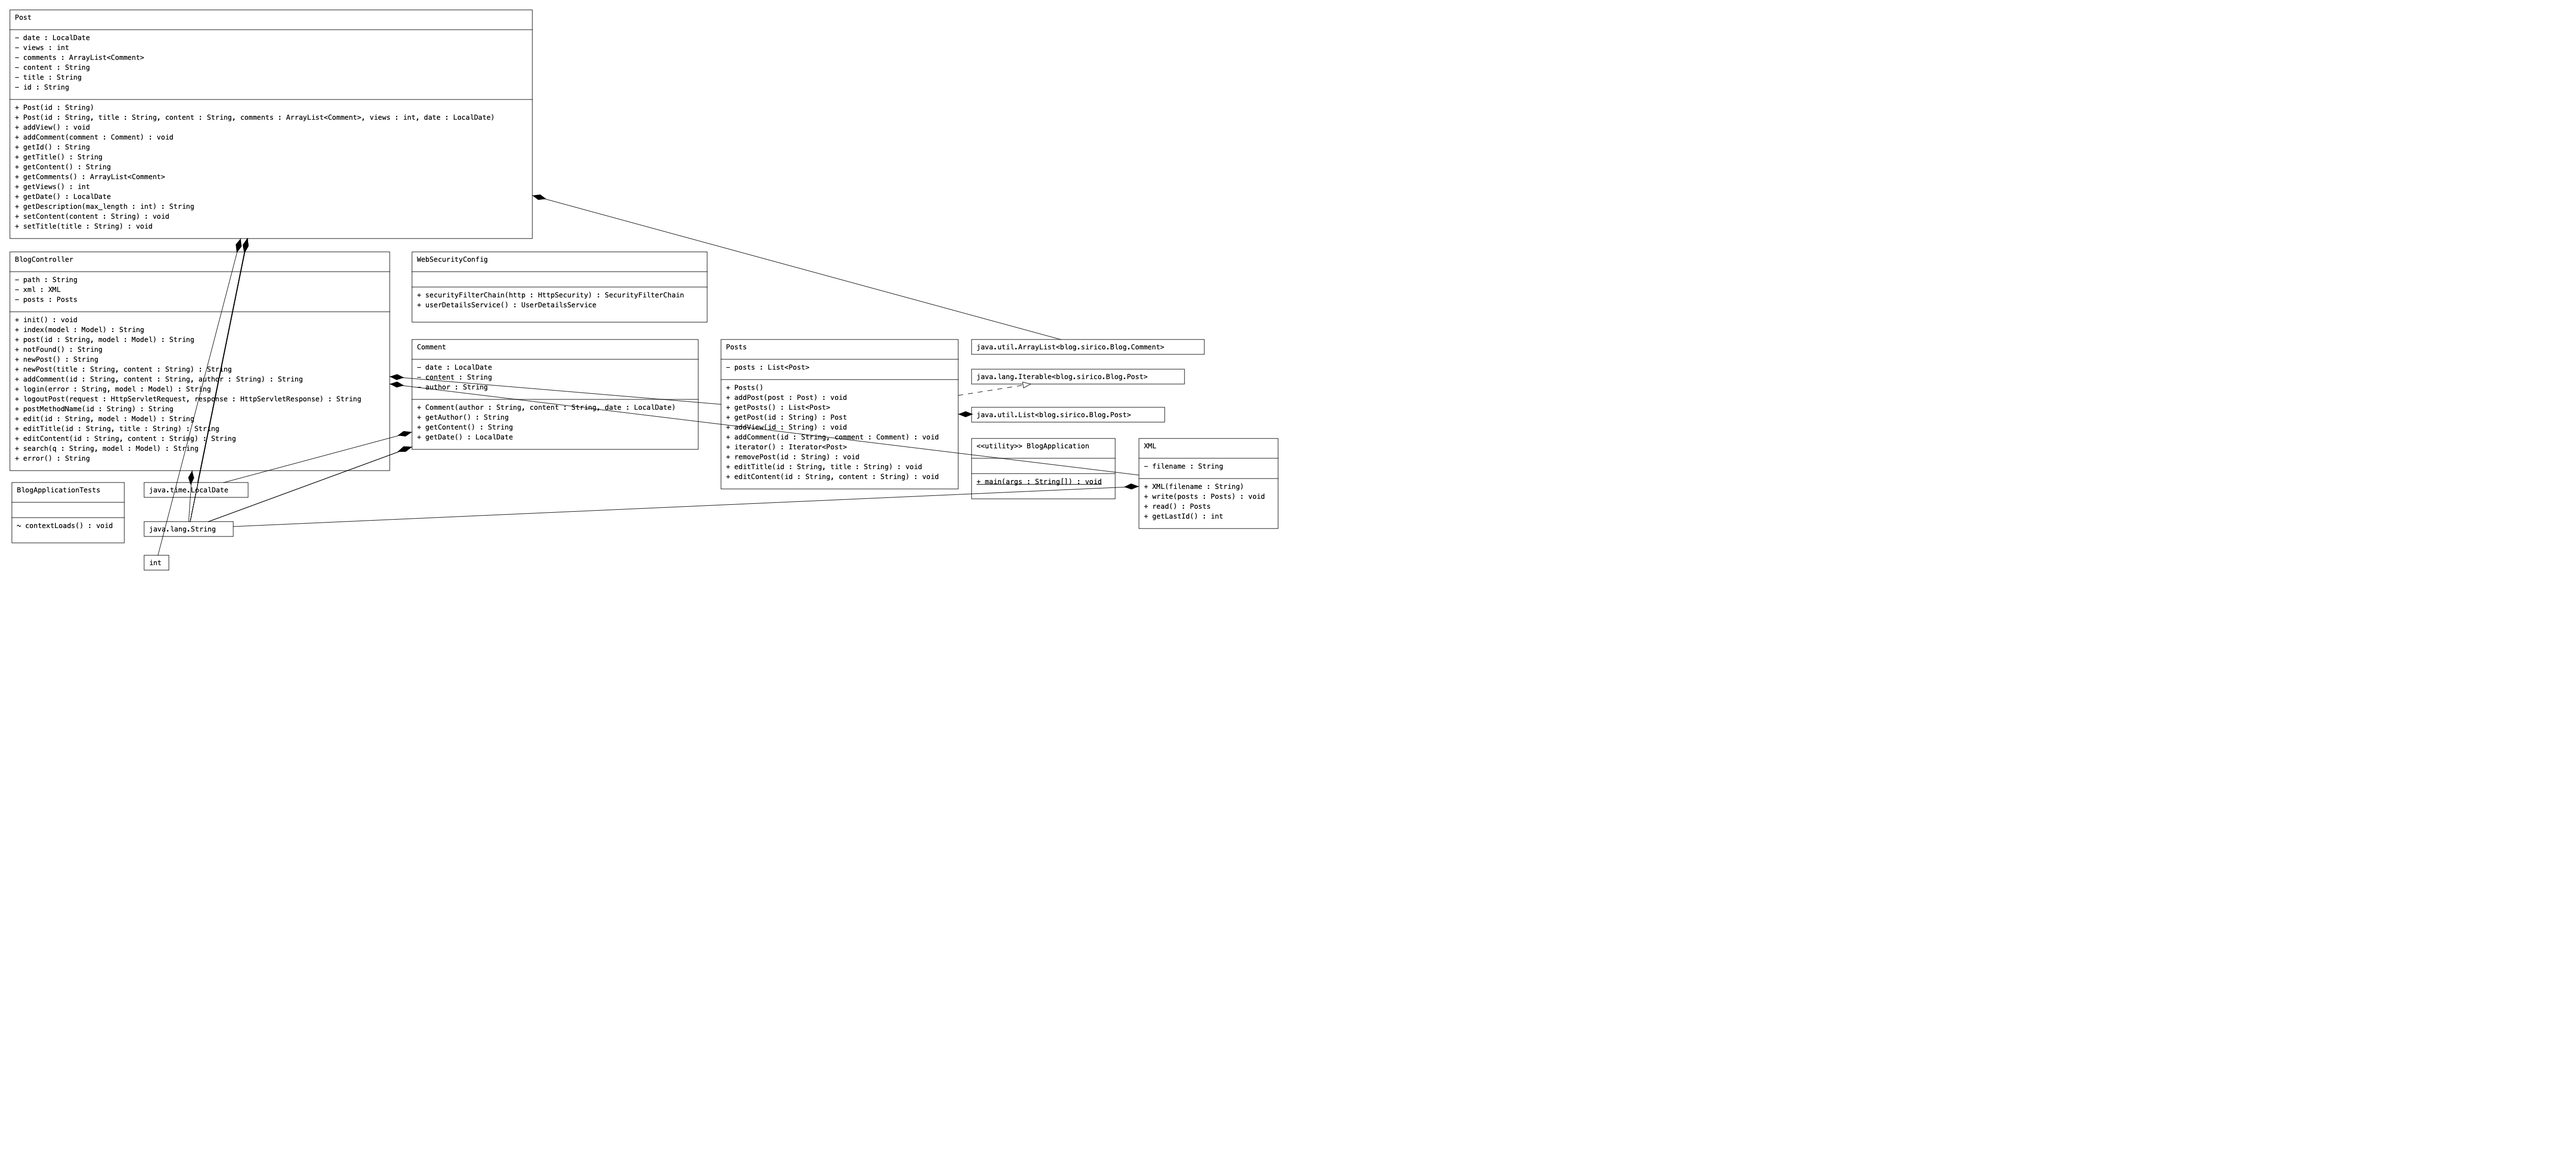
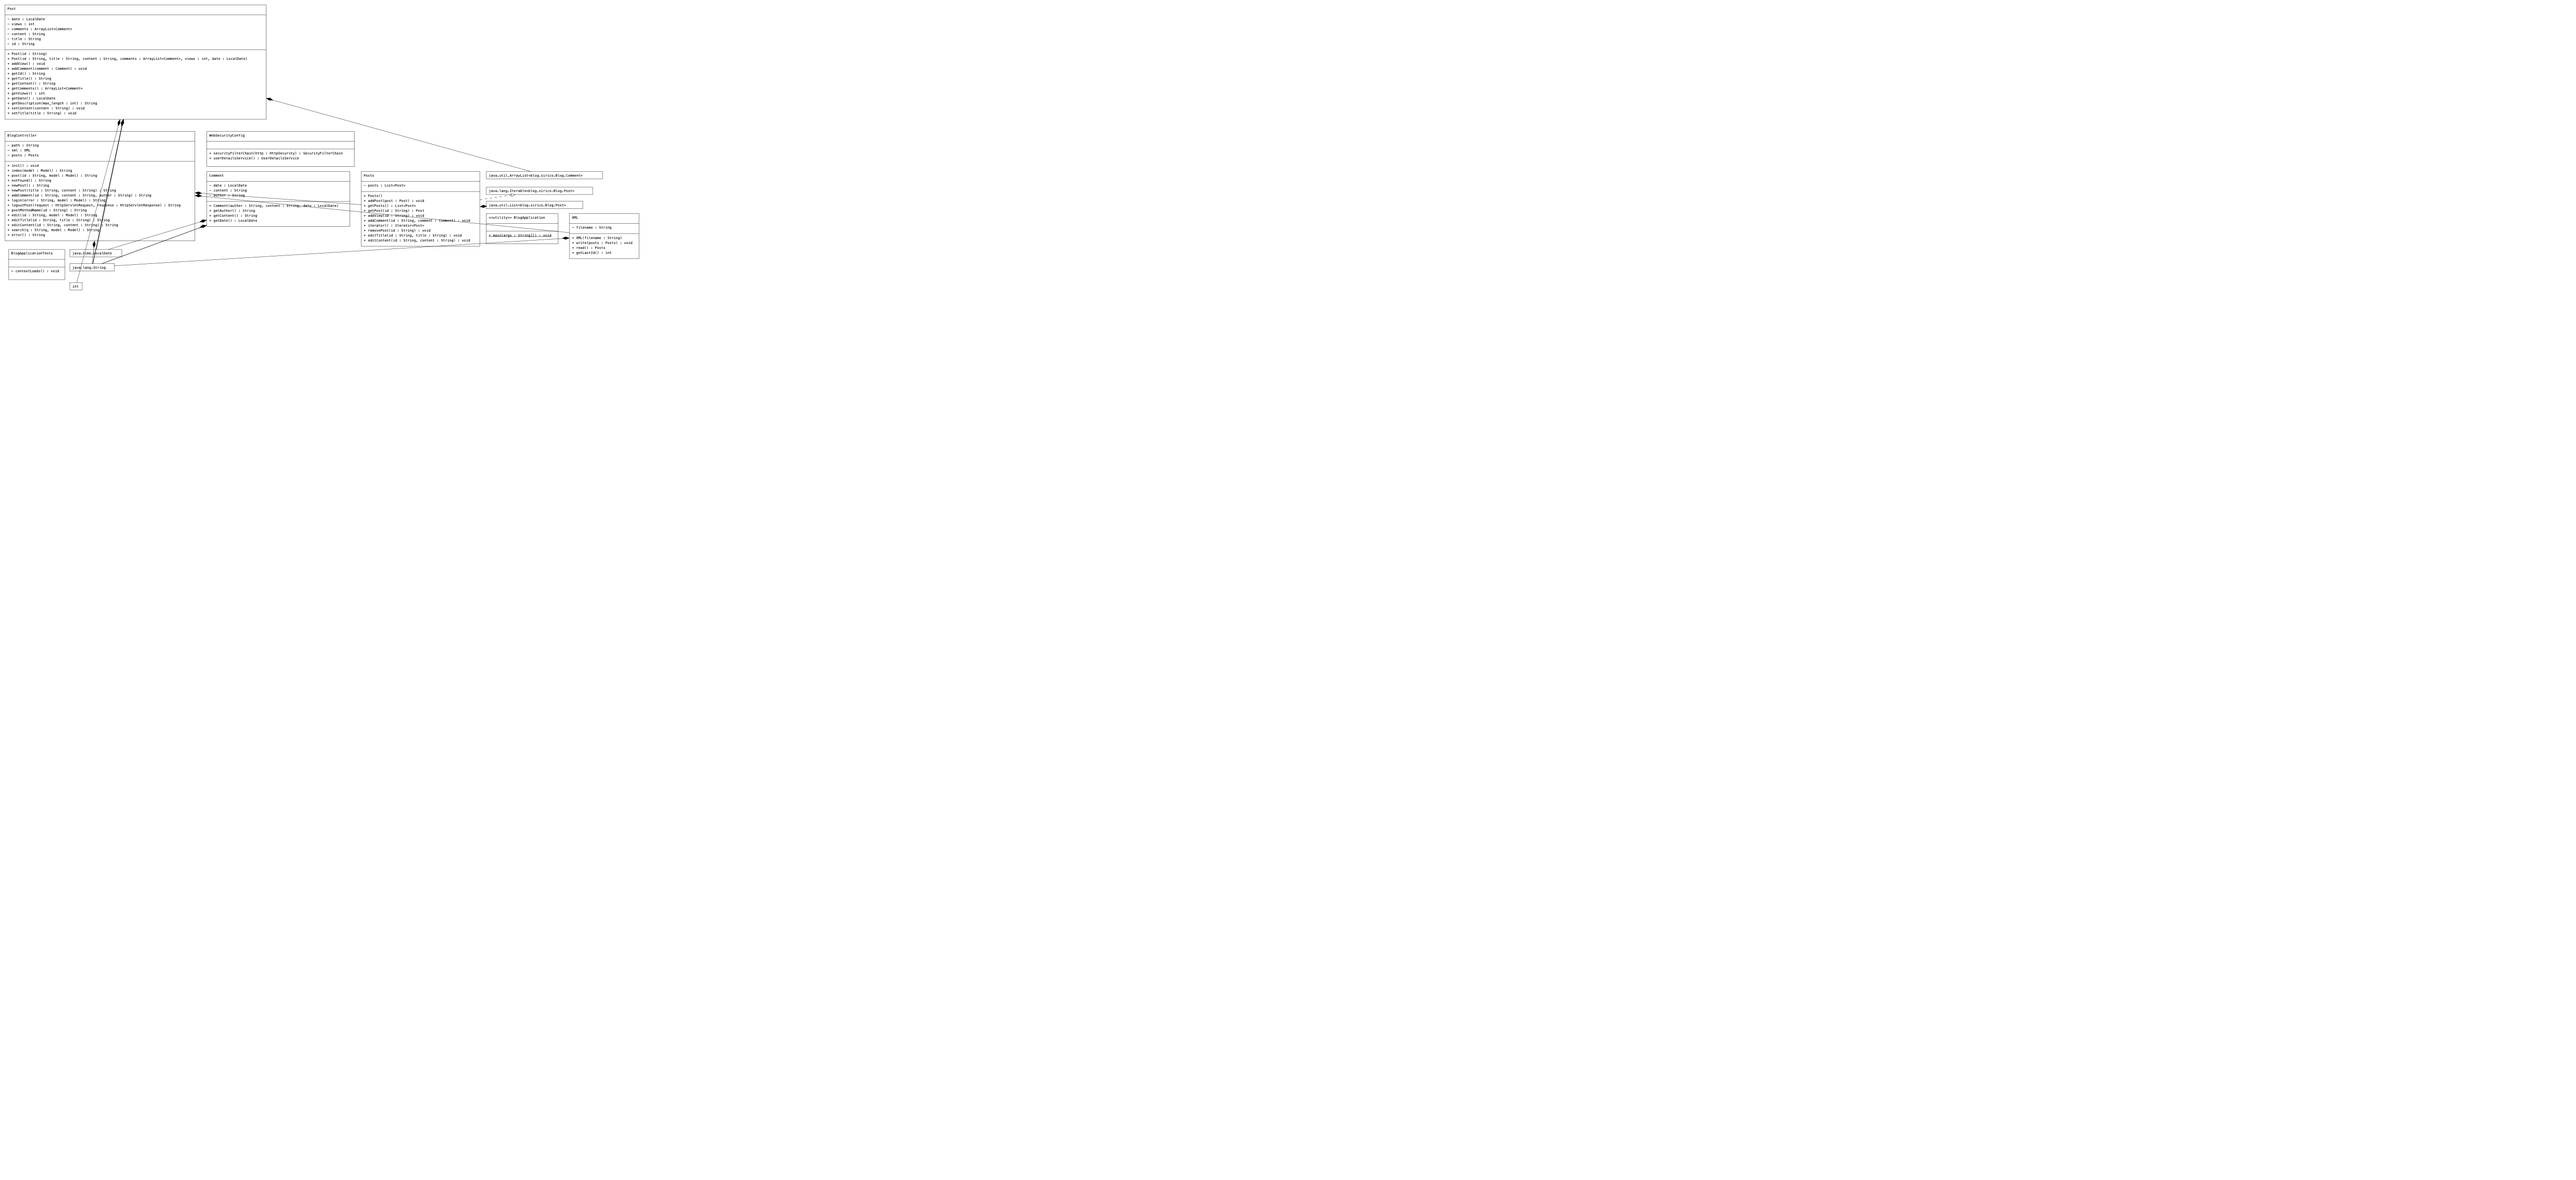
Refactor XML write method and update application.properties

Changed region(s): [[0.0, 0.0, 0.2491, 0.4672], [0.2491, 0.2803, 0.4983, 0.436], [0.1557, 0.3114, 0.218, 0.3737]]

diff --git a/src/main/java/blog/sirico/Blog/XML.java b/src/main/java/blog/sirico/Blog/XML.java
@@ -1,6 +1,7 @@
 package blog.sirico.Blog;
 
 import java.util.*;
+import java.util.concurrent.Semaphore;
 import java.io.*;
 import org.w3c.dom.*;
 import javax.xml.parsers.*;
@@ -13,13 +14,20 @@ import java.time.*;
 public class XML {
 
     private String filename;
-
+    private Semaphore semaphore;
     public XML(String filename) {
         this.filename = filename;
+        this.semaphore = new Semaphore(1);
     }
 
-    public void write(Posts posts) {
+    public XML(String filename, Semaphore semaphore) {
+        this.filename = filename;
+        this.semaphore = semaphore;
+    }
+
+    public  void write(Posts posts) {
         try {
+            semaphore.acquire();
             DocumentBuilderFactory docFactory = DocumentBuilderFactory.newInstance();
             DocumentBuilder docBuilder = docFactory.newDocumentBuilder();
             Document doc = docBuilder.newDocument();
@@ -61,11 +69,14 @@ public class XML {
             transformer.transform(source, result);
         } catch (Exception e) {
             e.printStackTrace();
+        } finally {
+            semaphore.release();
         }
     } 
     public Posts read() {
         Posts posts = new Posts();
         try {
+            semaphore.acquire();
             File file = new File(filename);
             DocumentBuilderFactory dbFactory = DocumentBuilderFactory.newInstance();
             DocumentBuilder dBuilder = dbFactory.newDocumentBuilder();
@@ -98,6 +109,8 @@ public class XML {
             }
         } catch (Exception e) {
             e.printStackTrace();
+        } finally {
+            semaphore.release();
         }
         return posts;
     }
@@ -105,6 +118,7 @@ public class XML {
     public int getLastId() {
         int last_id = 0;
         try {
+            semaphore.acquire();
             File file = new File(filename);
             DocumentBuilderFactory dbFactory = DocumentBuilderFactory.newInstance();
             DocumentBuilder dBuilder = dbFactory.newDocumentBuilder();
@@ -123,6 +137,8 @@ public class XML {
             }
         } catch (Exception e) {
             e.printStackTrace();
+        } finally {
+            semaphore.release();
         }
         return last_id;
     }

diff --git a/src/main/java/blog/sirico/Blog/BlogController.java b/src/main/java/blog/sirico/Blog/BlogController.java
@@ -16,14 +16,11 @@ import java.time.*;
 import org.springframework.web.bind.annotation.GetMapping;
 import org.springframework.web.bind.annotation.RequestParam;
 
-
-
 @Controller
 public class BlogController {
 
 	private Posts posts;
 	private XML xml;
-
 	@Value("${xml.path:src/main/resources/xml/posts.xml}")
     private String path;
 	/**
@@ -35,7 +32,6 @@ public class BlogController {
 		xml = new XML(path);
 		posts = xml.read();
 	}
-
 
 	@GetMapping("/")
 	public String index(Model model) {
@@ -54,6 +50,7 @@ public class BlogController {
 		}
 		// increment the number of views of the post(id)
 		posts.addView(id);
+		xml.write(posts);
 		model.addAttribute("post", post);
 		return "post";
 	}
@@ -110,7 +107,6 @@ public class BlogController {
 		return "redirect:/";
 	}
 
-
 	@PostMapping("/remove")
 	public String postMethodName(@RequestParam String id) {
 		posts.removePost(id);
@@ -135,6 +131,7 @@ public class BlogController {
 			return "redirect:/not-found";
 		}
 		posts.editTitle(id, title);
+		xml.write(posts);
 		return "redirect:/edit/" + id;
 	}
 

diff --git a/src/main/java/blog/sirico/Blog/WebSecurityConfig.java b/src/main/java/blog/sirico/Blog/WebSecurityConfig.java
@@ -37,10 +37,6 @@ public class WebSecurityConfig {
 				.logoutSuccessUrl("/")
 				.permitAll()
 			);
-
-
-
-
 		return http.build();
 	}
 
